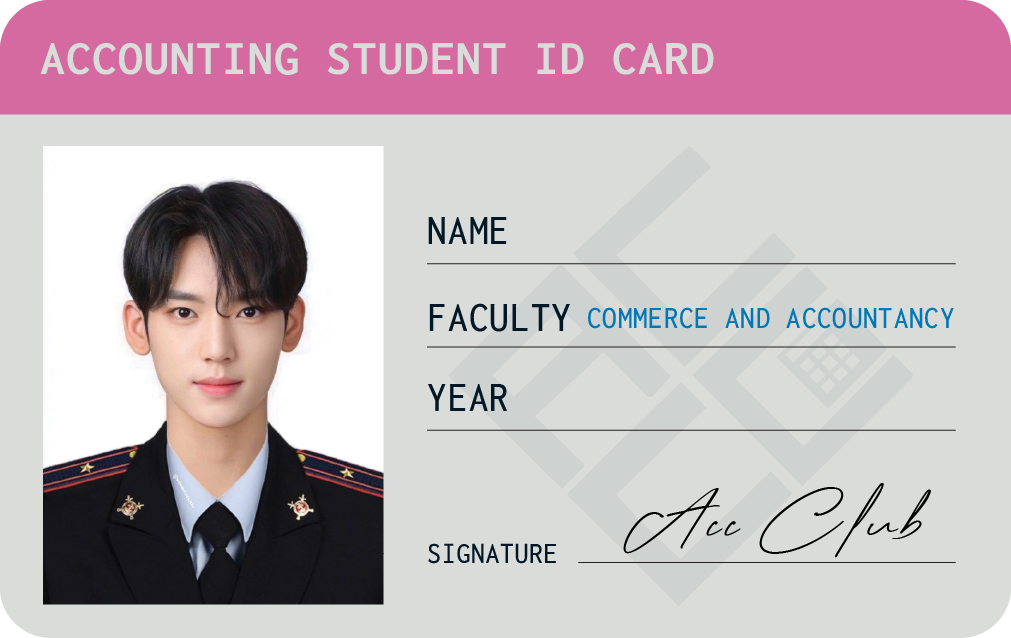
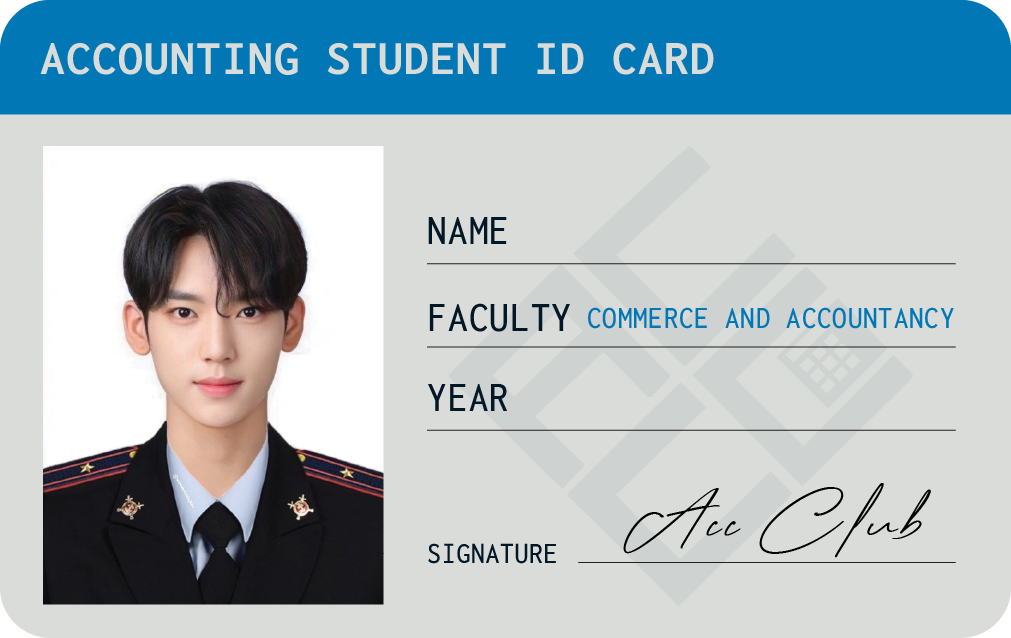
:sparkles: add card edit action

Changed region(s): [[0.0, 0.0, 1.0, 0.1787]]

diff --git a/src/components/ImageUpload.tsx b/src/components/ImageUpload.tsx
@@ -1,9 +1,11 @@
-import { createEffect, createSignal } from "solid-js";
+import { createEffect, createSignal, createMemo } from "solid-js";
 import { buttonStyles } from "./Button";
 import { Select } from "./Select";
+import { Button } from "./Button";
 
 export const ImageUpload = () => {
   const [file, setFile] = createSignal<File>();
+  let fileInput: HTMLInputELement;
   let image: HTMLImageElement;
   createEffect(() => {
     const f = file();
@@ -14,36 +16,72 @@ export const ImageUpload = () => {
       image.src = this.result as string;
     };
   });
+  let input: HTMLInputElement;
+  const [name, setName] = createSignal("YOUR NAME...");
+  const [year, setYear] = createSignal(YEARS[0]);
+  const [card, setCard] = createSignal(CARDS[0]);
+  const cardPath = createMemo(
+    () => `/profile-card/card${CARDS.indexOf(card())}.png`
+  );
   return (
     <>
       <div class="relative">
         <img
           alt="background"
-          src="/profile-card/card6.png"
-          class="object-cover rounded-2xl shadow-xl"
+          src={cardPath()}
+          class="object-cover rounded-xl shadow-lg"
         />
-        <div class="absolute left-[4%] top-[22.5%] bottom-[4%] right-[62%] overflow-hidden">
+        <div
+          class="absolute left-[4%] top-[22.5%] bottom-[4%] right-[62%] overflow-hidden cursor-pointer"
+          onClick={() => fileInput.click()}
+        >
           <img ref={image!} class="bg-gray-50 object-cover w-full h-[100%]" />
         </div>
-      </div>
-      <label
-        class={buttonStyles({ colorScheme: "primary", class: "no-print" })}
-      >
-        Upload Picture
         <input
-          id="file"
-          type="file"
-          class="hidden"
-          accept="image/png, image/jpeg"
-          onChange={(event) => {
-            const { files } = event.target as HTMLInputElement;
-            const file = files?.[0];
-            if (!file) return;
-            setFile(file);
-          }}
+          ref={input!}
+          class="absolute left-[58%] top-[31%] text-xs text-gray-800 w-24 bg-transparent focus:outline-none focus:border-violet-400 focus:ring-violet-400 focus:ring-2 rounded-sm"
+          value={name()}
         />
-      </label>
-      <Select options={["SHI81", "SHI82", "SHI83", "SHI84"]} />
+        <span class="absolute left-[58%] top-[57%] text-xs text-red-700">
+          {year()}
+        </span>
+      </div>
+      <div class="flex flex-col gap-2">
+        <div class="flex gap-2">
+          <label
+            class={buttonStyles({
+              colorScheme: "primary",
+              class: "no-print flex-1",
+            })}
+          >
+            Upload Picture
+            <input
+              ref={fileInput!}
+              id="file"
+              type="file"
+              class="hidden"
+              accept="image/png, image/jpeg"
+              onChange={(event) => {
+                const { files } = event.target as HTMLInputElement;
+                const file = files?.[0];
+                if (!file) return;
+                setFile(file);
+              }}
+            />
+          </label>
+          <Select options={CARDS} onChange={(value) => setCard(value)}>
+            {card()}
+          </Select>
+        </div>
+        <div class="flex gap-2">
+          <Button onClick={() => input.select()}>Change Your Name</Button>
+          <Select options={YEARS} onChange={(value) => setYear(value)}>
+            {year()}
+          </Select>
+        </div>
+      </div>
     </>
   );
 };
+const YEARS = ["SHI84", "SHI83", "SHI82", "SHI81"] as const;
+const CARDS = ["Pink", "Orange", "Dark", "Red", "Cyan", "Purple"] as const;

diff --git a/src/components/Select.tsx b/src/components/Select.tsx
@@ -1,4 +1,4 @@
-import { Component, For, JSX } from "solid-js";
+import { Component, For, JSX, ParentProps, children } from "solid-js";
 import {
   Menu,
   MenuItem,
@@ -12,17 +12,22 @@ import { buttonStyles } from "./Button";
 
 interface SelectProps {
   options: string[];
+  onChange: (value: any) => void;
 }
 
-export const Select: Component<SelectProps> = (props) => {
+export const Select: Component<ParentProps<SelectProps>> = (props) => {
+  const c = children(() => props.children);
   return (
-    <Popover defaultOpen={false} class="relative">
+    <Popover defaultOpen={false} class="relative flex-1">
       {({ isOpen }) => (
         <>
           <PopoverButton
-            class={clsx(isOpen() && "text-opacity-90", buttonStyles())}
+            class={clsx(
+              isOpen() && "text-opacity-90",
+              buttonStyles({ class: "w-full no-print" })
+            )}
           >
-            <span>Year</span>
+            <span>{c()}</span>
             <ChevronDownIcon
               class={clsx(
                 isOpen() && "text-opacity-70",
@@ -44,12 +49,13 @@ export const Select: Component<SelectProps> = (props) => {
               unmount={false}
               class="absolute z-10 px-4 mt-3 transform -translate-x-1/2 left-1/2 sm:px-0 lg:max-w-3xl"
             >
-              <Menu class="overflow-hidden w-64 rounded-xl shadow-lg ring-1 ring-black ring-opacity-5 bg-white flex flex-col gap-2 p-2">
+              <Menu class="overflow-hidden w-32 rounded-xl shadow-lg ring-1 ring-black ring-opacity-5 bg-white flex flex-col gap-2 p-2">
                 <For each={props.options}>
                   {(option) => (
                     <MenuItem
                       as="button"
                       class="text-sm p-2 text-left rounded-lg hover:bg-violet-600 hover:text-white focus:outline-none focus:bg-violet-600 focus:text-white"
+                      onClick={() => props.onChange(option)}
                     >
                       {option}
                     </MenuItem>

diff --git a/src/components/Button.tsx b/src/components/Button.tsx
@@ -3,7 +3,7 @@ import { Component, ComponentProps, ParentProps, children } from "solid-js";
 import { VariantProps, tv } from "tailwind-variants";
 
 export const buttonStyles = tv({
-  base: "inline-flex justify-center rounded-xl border border-transparent px-4 py-2 text-sm font-bold tracking-wide focus:outline-none focus-visible:ring-2 focus-visible:ring-offset-2",
+  base: "no-print inline-flex justify-center rounded-xl border border-transparent px-4 py-2 text-sm font-bold tracking-wide focus:outline-none focus-visible:ring-2 focus-visible:ring-offset-2",
   variants: {
     colorScheme: {
       primary:
